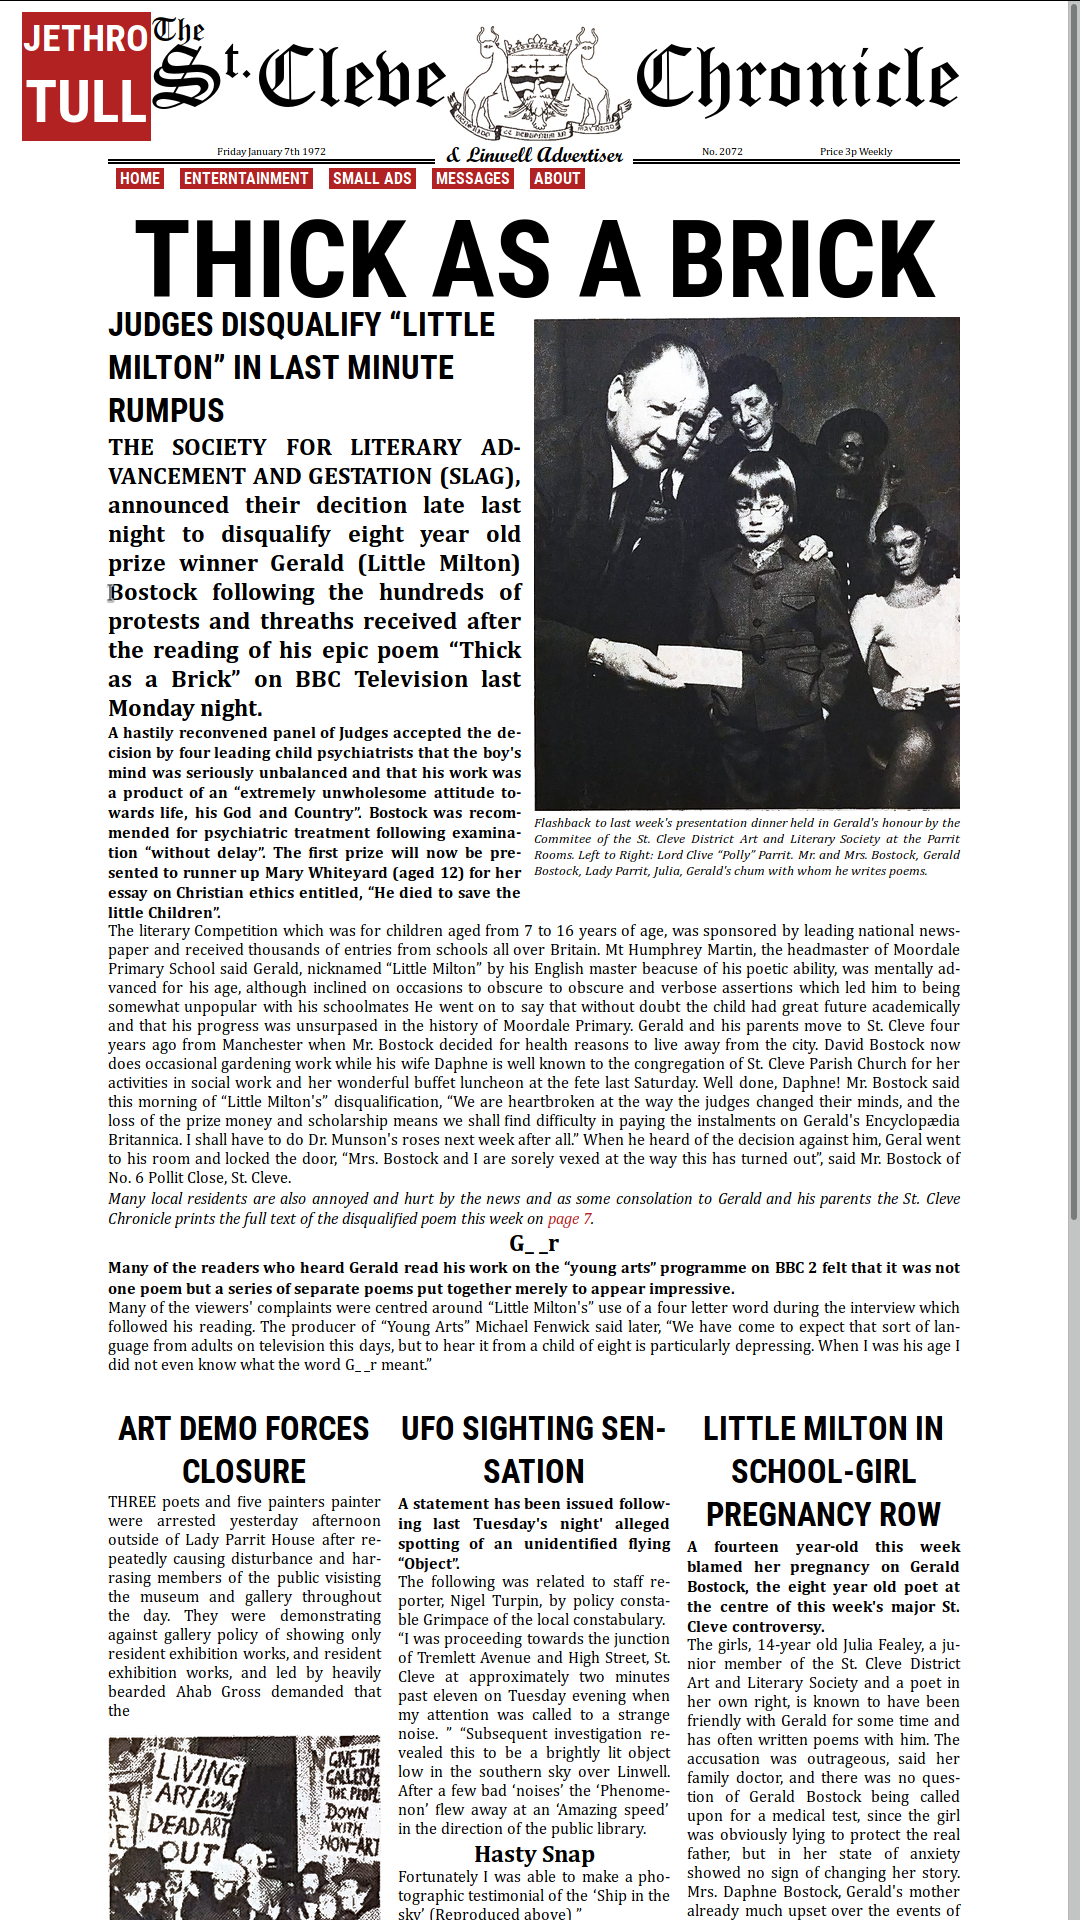
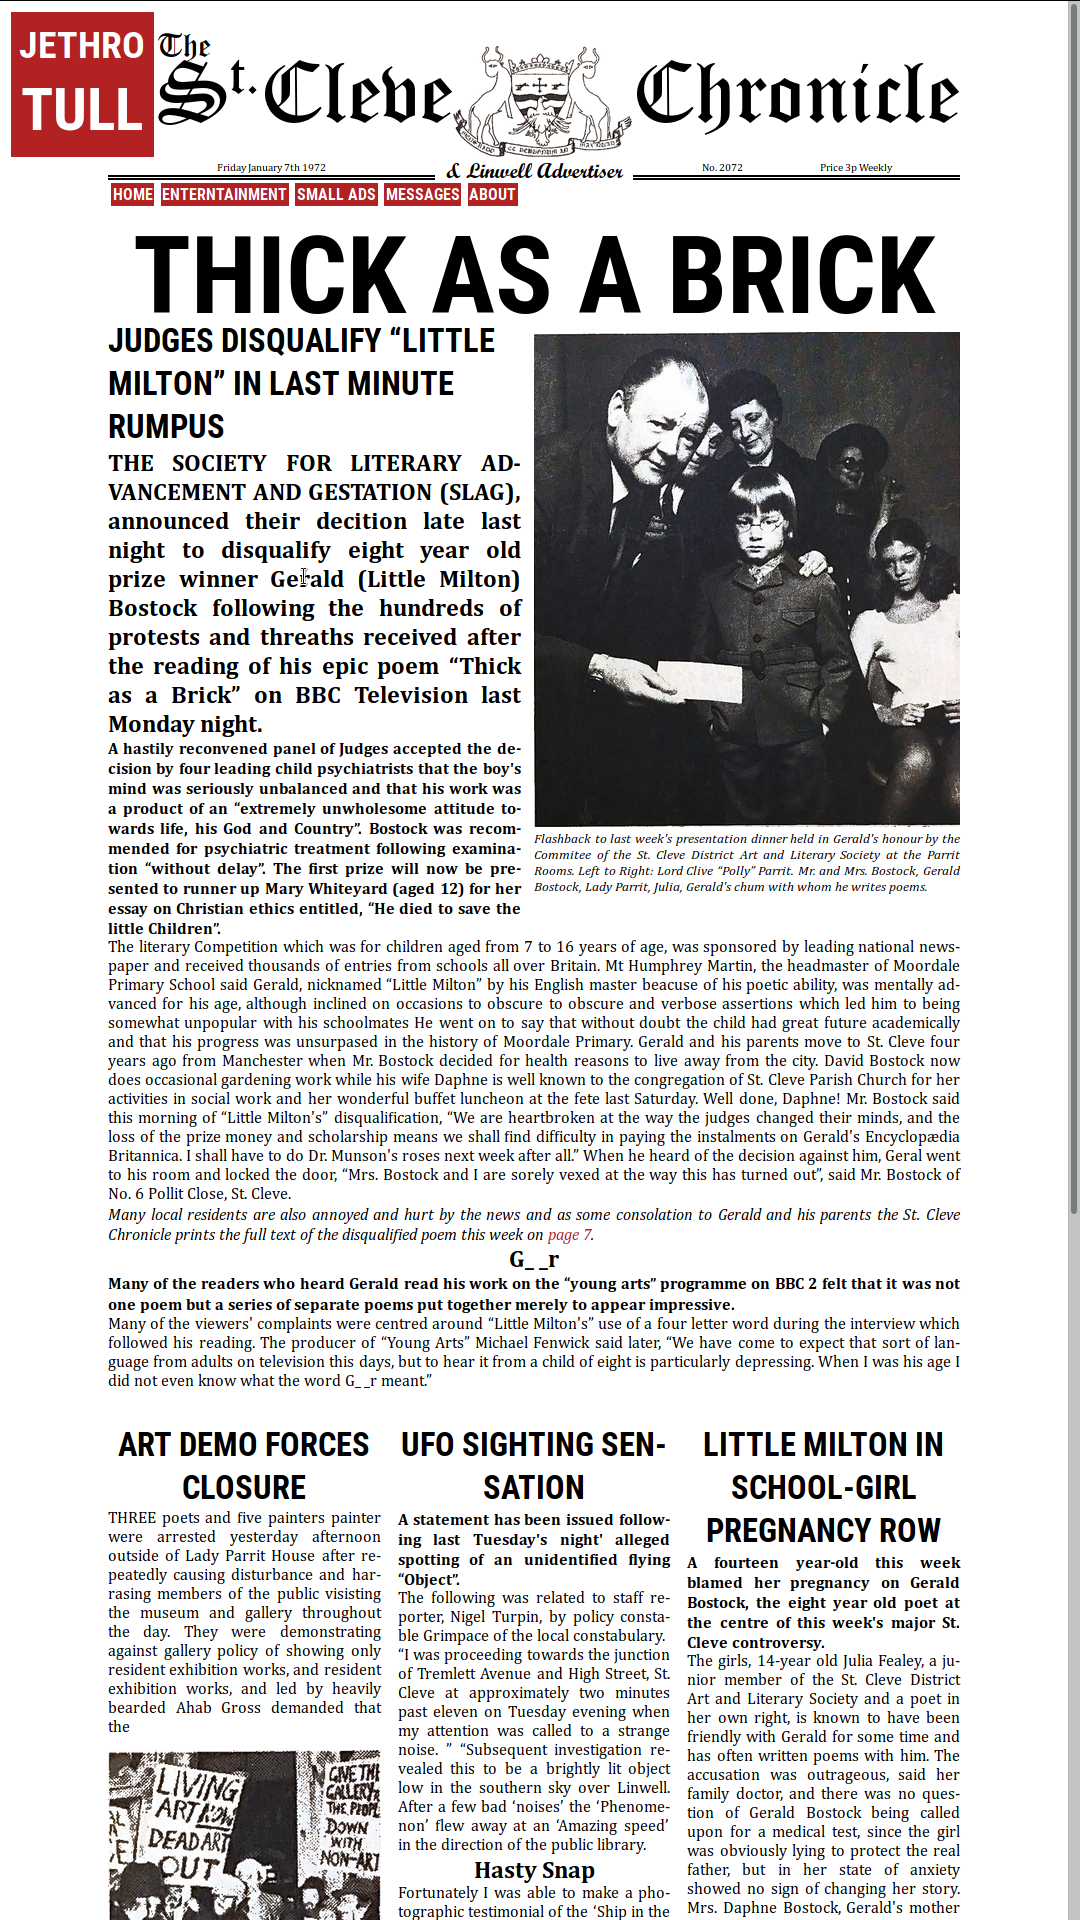
fixed anchor and section items hover colors, updated screenshot.png

Changed region(s): [[0.0, 0.0, 0.8861, 1.0]]

diff --git a/css/flex.css b/css/flex.css
@@ -54,18 +54,7 @@ ul {
     list-style-type: none;
     display: flex;
     justify-content: flex-start;
-    font-family: var(--headline-font-family);
     text-transform: uppercase;
-}
-
-li {
-    margin: 0 .5em;
-    padding: 0 .25em;
-    background-color: var(--link-color);
-}
-
-li a {
-    color: var(--background-color);
 }
 
 a {
@@ -73,38 +62,44 @@ a {
     color: var(--link-color);
 }
 
-a:not(.feature,li):hover {
+a:not(.section):hover {
     color: var(--link-hover-color);
 }
 
-.feature {
-    display: flex;
-    flex-direction: column;
+.section {
     font-family: 'Roboto Condensed', sans-serif;
-    font-weight: bold;
-    margin-left: -8vw;
-    padding: .5vw;
-    width: var(--feature-size);
-    height: var(--feature-size);
+    /* font-weight: bold; */
+    padding: .1em;
+    margin: 0 .2rem;
     color: var(--background-color);
     background-color: var(--link-color);
+}
+
+#feature {
+    /* width: var(--feature-size); */
+    /* height: var(--feature-size); */
+    font-weight: bold;
+    margin-left: -9vw;
+    display: flex;
+    flex-direction: column;
+    /* justify-content: space-around; */
     justify-content: space-evenly;
     align-items: center;
 }
 
-.feature:hover, li:hover {
+.section:hover {
     background-color: var(--link-hover-color);
 }
 
-.feature > :nth-child(1) {
+#feature > :nth-child(1) {
     font-size: 3.5vw;
 }
 
-.feature > :nth-child(2) {
+#feature > :nth-child(2) {
     font-size: 5.5vw;
 }
 
-.feature > :nth-child(3) {
+#feature > :nth-child(3) {
     font-size: 1.2vw;
 }
 
@@ -113,7 +108,7 @@ a:not(.feature,li):hover {
     font-family: "Old English Text MT Std", "ChomskyRegular", fantasy;
     font-size: 8vw;
     align-items: flex-end;
-    justify-content: space-around;
+    justify-content: space-between;
 }
 
 .masthead__column {

diff --git a/index.html b/index.html
@@ -11,7 +11,7 @@
     <body>
         <header class="header__main">
             <div class="masthead">
-                <a class="feature" href="">
+                <a id="feature" class="section" href="">
                     <div>JETHRO</div>
                     <div>TULL</div>
                 </a>
@@ -39,11 +39,11 @@
             </div>
             <nav class="header__nav">
                 <ul>
-                    <li><a href="#">Home</a></li>
-                    <li><a href="#">Enterntainment</a></li>
-                    <li><a href="#">Small Ads</a></li>
-                    <li><a href="#">Messages</a></li>
-                    <li><a href="#">About</a></li>
+                    <li><a class="section" href="#">Home</a></li>
+                    <li><a class="section" href="#">Enterntainment</a></li>
+                    <li><a class="section" href="#">Small Ads</a></li>
+                    <li><a class="section" href="#">Messages</a></li>
+                    <li><a class="section" href="#">About</a></li>
                 </ul>
             </nav>
         </header>
